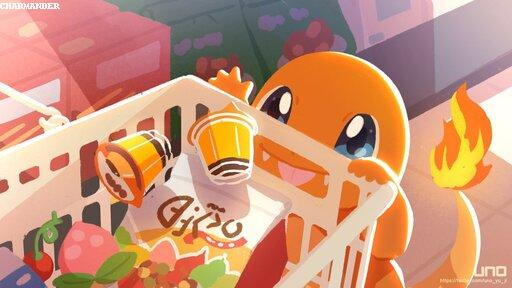
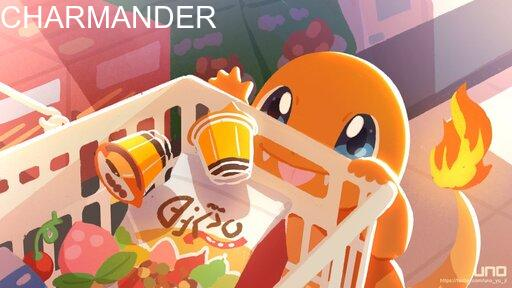
fontsize

Changed region(s): [[0.0, 0.0, 0.4375, 0.125]]

diff --git a/algorithms/image.py b/algorithms/image.py
@@ -1,4 +1,4 @@
-from PIL import Image, ImageDraw
+from PIL import Image, ImageDraw, ImageFont
 import numpy
 # import re
 import base64
@@ -40,6 +40,7 @@ def image_formatter(img, img_type):
 def drawhack(path="static/assets/michaelimages/", img_list=None):
     if img_list is None:  # color_dict is defined with defaults
         img_list = [
+            # unnecessary for drawhack - only needs appended files
             # {'source': "ウノユウジ https://twitter.com/uno_yu_ji", 'label': "Charmander", 'file': "char1.jpg"},
             # {'source': "ウノユウジ https://twitter.com/uno_yu_ji", 'label': "Charmander", 'file': "char2.jpg"},
             # {'source': "ウノユウジ https://twitter.com/uno_yu_ji", 'label': "Charmander", 'file': "char3.jpg"},
@@ -49,12 +50,14 @@ def drawhack(path="static/assets/michaelimages/", img_list=None):
         img_dict['path'] = '/' + path  # path for HTML access (frontend)
         file = path + img_dict['file']  # file with path for local access (backend)
         # hack testing
-        img = Image.open(file) # opens file to work
-        #newfile = path + img_dict['newfile']
-        clear = img.copy()
-        draw = ImageDraw.Draw(clear)
-        draw.text((0, 0),"CHARMANDER",(255,255,255))
-        clear.save(path + 'new' + img_dict['file'])
+        img = Image.open(file)  # opens file to work
+        clear = img.copy()  # creates a copy of the file used
+        draw = ImageDraw.Draw(clear)  # "draws" on the clean copy
+        font = ImageFont.truetype("arial.ttf", 30)  # font and fontsize
+        text = "CHARMANDER"  # the text
+        draw.text((0, 0), text, (255,255,255), font=font)  # the drawing process
+        clear.save(path + 'new' + img_dict['file'])  # saves clean copy as "new<file>.jpg"
+    # appending to img_list so the images can load on the html
     img_list.append({'source': "ウノユウジ https://twitter.com/uno_yu_ji", 'label': "Charmander", 'file': "newchar1.jpg"},)
     img_list.append({'source': "ウノユウジ https://twitter.com/uno_yu_ji", 'label': "Charmander", 'file': "newchar2.jpg"},)
     img_list.append({'source': "ウノユウジ https://twitter.com/uno_yu_ji", 'label': "Charmander", 'file': "newchar3.jpg"},)
